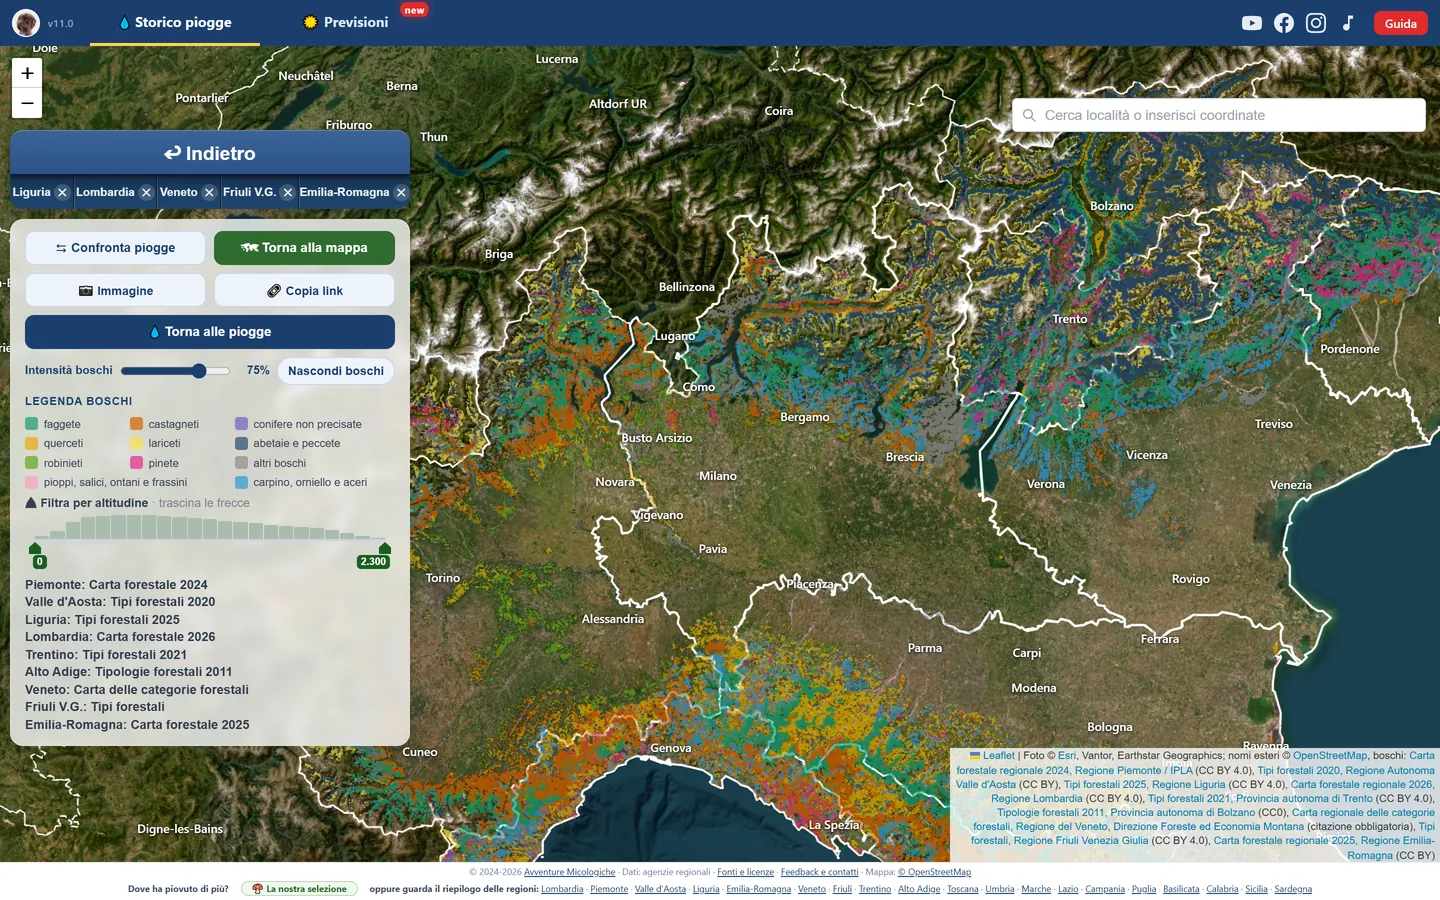
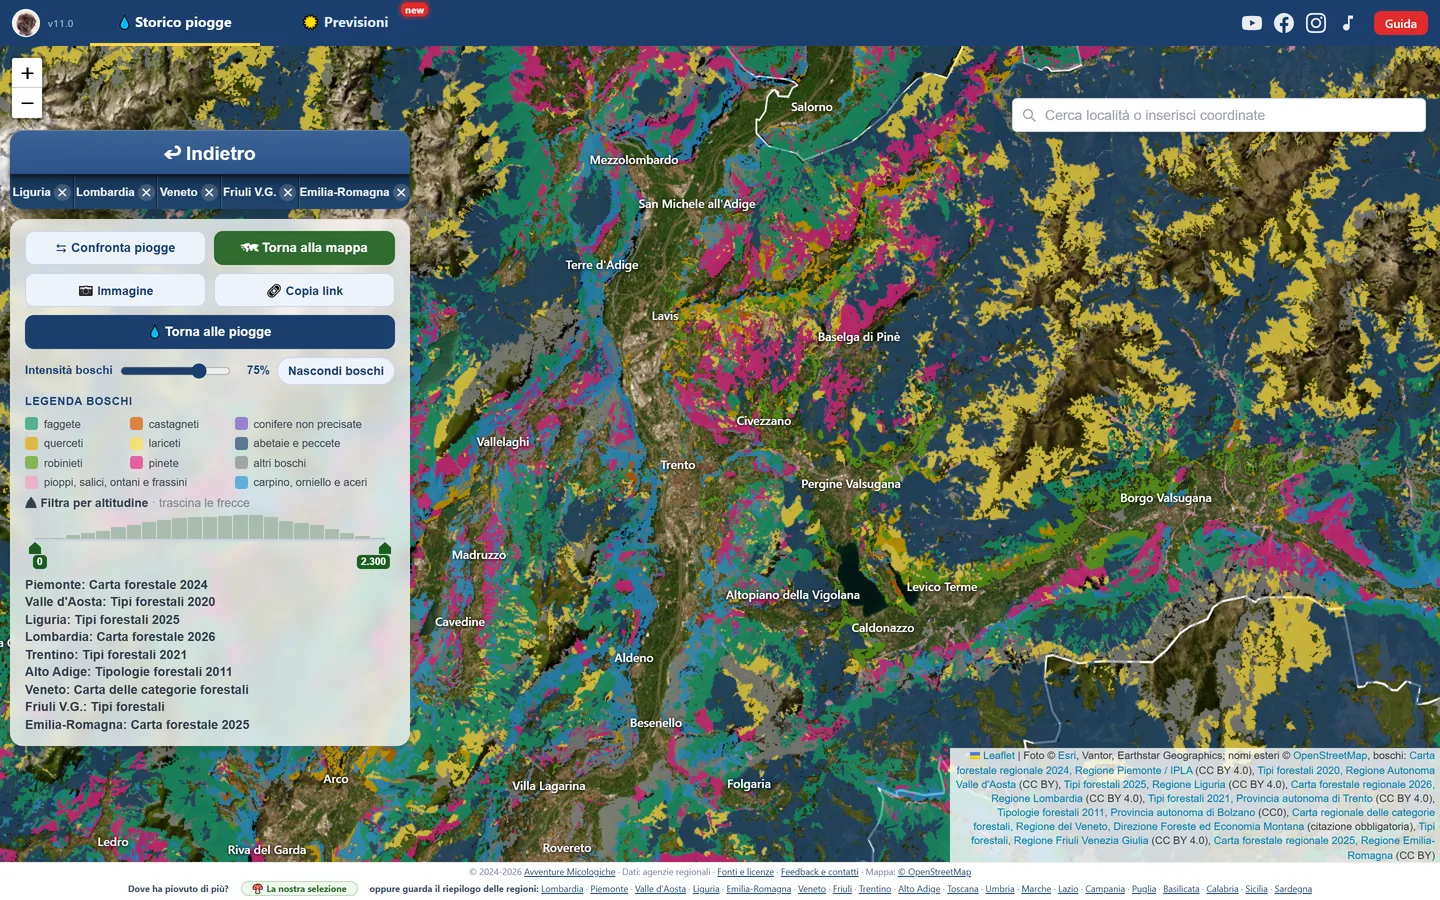
home v2: mappa dei boschi piu' vicina (zoom 11, Trentino)

diff --git a/studio-apple/home-v2/index.html b/studio-apple/home-v2/index.html
@@ -332,11 +332,11 @@ footer .copy { margin-top: 24px; padding-top: 16px; border-top: 1px solid var(--
   </div>
   <figure class="su dopo ritaglio">
     <!-- 22/10 sera, sua richiesta: la mappa VERA dei boschi, sopra il satellite e non OpenStreetMap (scatto a 2880 px,
-         intensita' dei boschi al 75% col cursore, zoom 8: piu' lontano la mappa non disegna ancora Lombardia e Piemonte) -->
+         intensita' dei boschi al 75% col cursore; zoom 11 sul Trentino intorno a Trento: da lontano i boschi non si leggono) -->
     <img src="../film/foto/boschi-vera-nord-1440.webp"
          srcset="../film/foto/boschi-vera-nord-1440.webp 1440w, ../film/foto/boschi-vera-nord-2880.webp 2880w"
          sizes="(max-width: 734px) calc(100vw - 24px), min(1136px, calc(100vw - 44px))" width="2880" height="1800" loading="lazy" style="object-position: 64% 50%"
-         alt="La mappa dei boschi com'è sul sito, sopra la foto dal satellite: il Nord dalle Alpi alla Liguria, con i colori delle faggete, dei castagneti, dei querceti e delle abetaie, e a sinistra la legenda dei tipi di bosco.">
+         alt="La mappa dei boschi com'è sul sito, da vicino sopra la foto dal satellite: le montagne intorno a Trento coperte dai colori di abetaie, faggete, lariceti e pinete, e a sinistra la legenda dei tipi di bosco.">
     <figcaption class="small">La mappa dei boschi com'è sul sito, sopra la foto dal satellite.</figcaption>
   </figure>
 </section>
